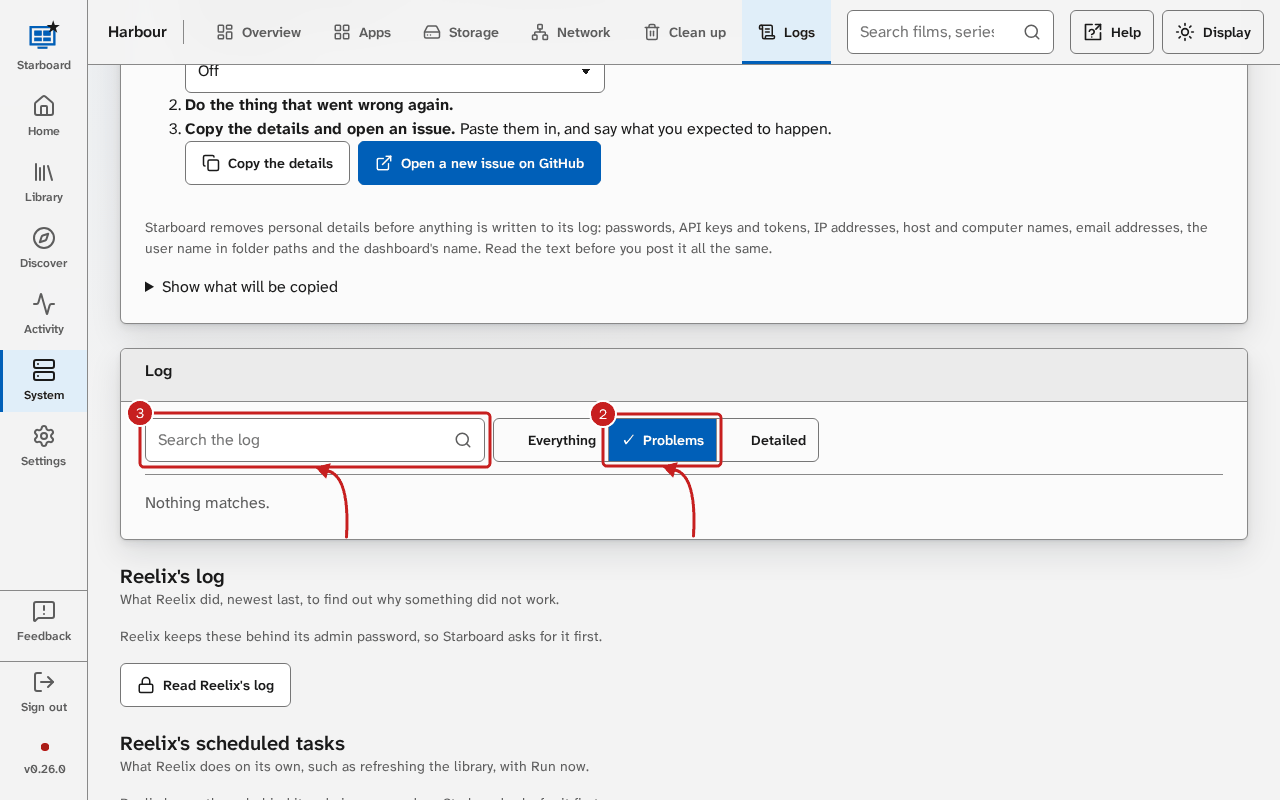
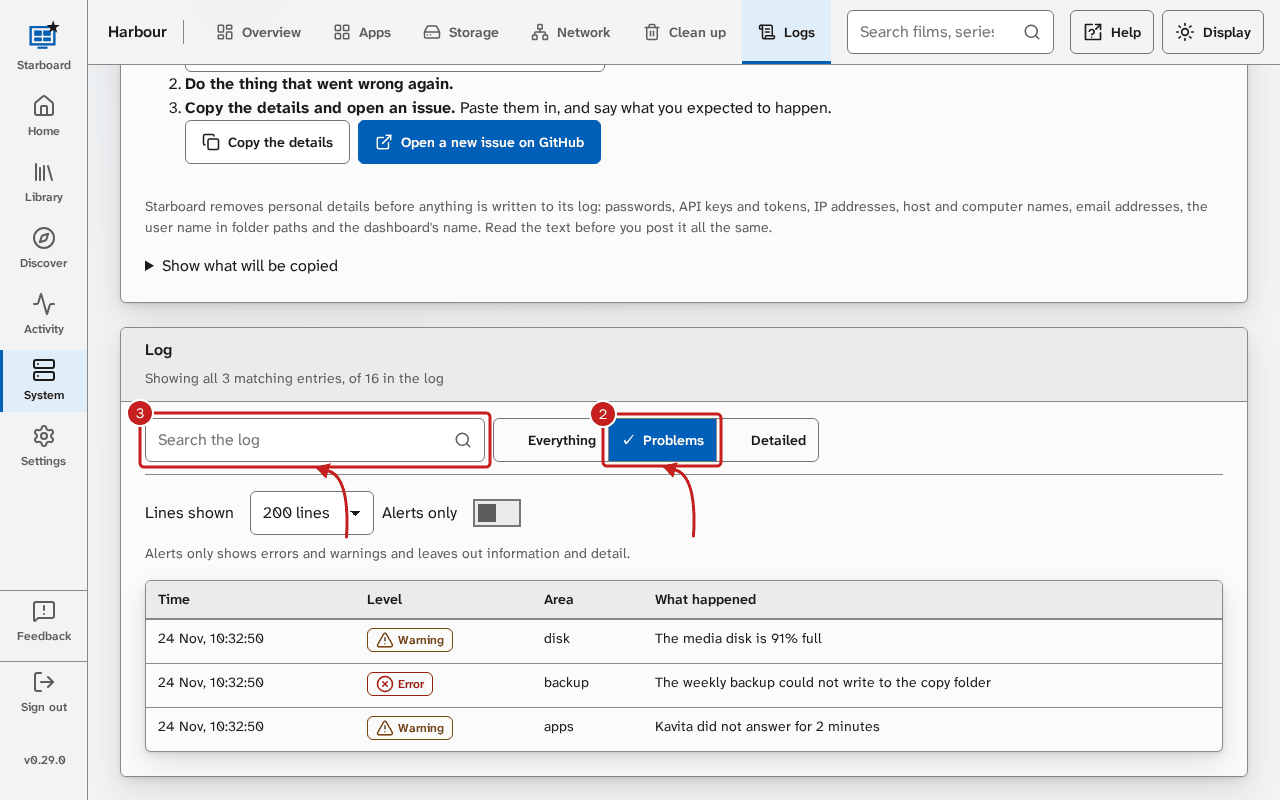
System, Logs: example alerts, a fourth help picture, journey renamed LOG-02 (DASH-534)

diff --git a/tools/screenshots/example_server.py b/tools/screenshots/example_server.py
@@ -2229,6 +2229,11 @@ def main():
         ("upgraded", "Starboard", "Starboard is updated", "Starboard v0.26.0 is installed and answering.", now - 30 * hour, ""),
         ("failed", "qBittorrent", "qBittorrent was not updated", "The new version did not start, so Starboard went back to the one before.", now - 50 * hour, ""),
         ("upgraded", "Audiobookshelf", "Audiobookshelf updated from 2.30.0 to 2.31.0", "", now - 75 * hour, "")])
+    # System, Logs (DASH-534): a few alerts among the information lines, so Alerts only and the problems filter have rows.
+    from starboard import logs as own_logs
+    own_logs.event("warning", "apps", "Kavita did not answer for 2 minutes")
+    own_logs.event("error", "backup", "The weekly backup could not write to the copy folder")
+    own_logs.event("warning", "disk", "The media disk is 91% full")
     print("READY", flush=True)
     threading.Event().wait()
 
